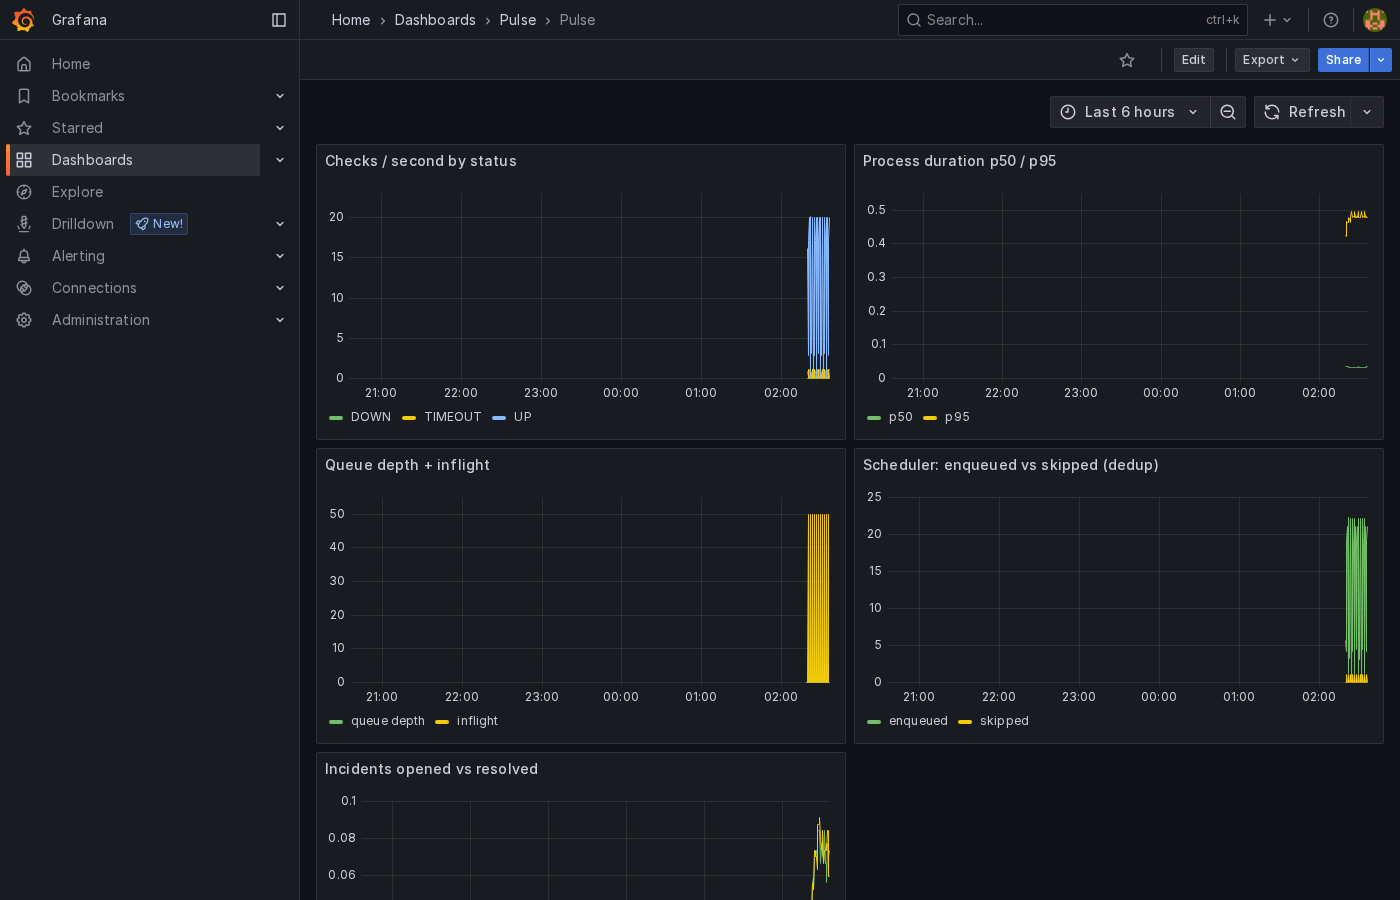
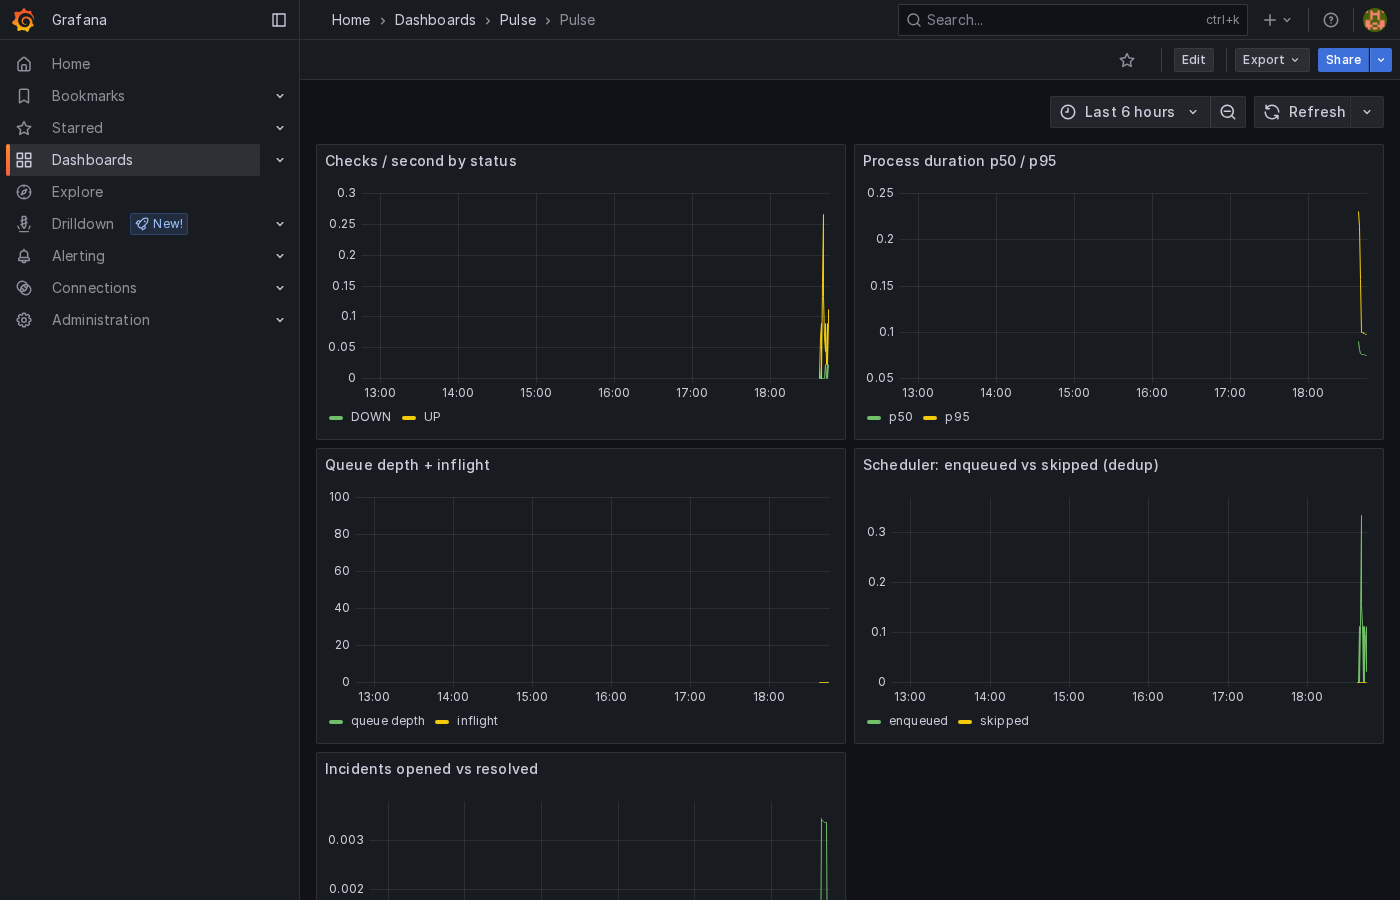
docs: full README rewrite (contract, config, security, ops, roadmap) + fresh grafana shot

diff --git a/README.md b/README.md
@@ -1,36 +1,178 @@
 # Pulse — API Monitoring & Incident Platform
 
-> Ekosistem: [api](https://github.com/RakhaYandra/pulse) · [web](https://github.com/RakhaYandra/pulse-web)
+> Ecosystem: [api](https://github.com/RakhaYandra/pulse) (this repo) · [web](https://github.com/RakhaYandra/pulse-web)
 
 Go, Gin, PostgreSQL, Redis, Docker. Full Clean Architecture.
 
-Self-hosted platform that health-checks APIs on a schedule, stores results,
-opens incidents on configurable failure thresholds, resolves on recovery, and
-notifies via Telegram. Monitoring runs in background workers — never in the
-dashboard request lifecycle.
+Self-hosted platform for developers and small teams who own several APIs:
+register endpoints, health-check them on a schedule, store every result,
+open incidents on configurable failure thresholds, resolve on recovery, and
+get notified via Telegram. Monitoring runs in background workers — never in
+the dashboard request lifecycle.
+
+## How it works
+
+```
+dashboard (pulse-web)
+        │  JSON contract (Newman-guarded)
+        ▼
+Go/Gin API ──┬──► PostgreSQL (users, monitors, checks, incidents)
+             └──► Redis (pulse:jobs) ──► Worker 1..N ──► target APIs
+                                                      │ incidents ──► Telegram
+```
+
+1. You create a monitor: `GET https://api.example.com/health`, every 60s,
+   timeout 5s, failure threshold 3, recovery threshold 2.
+2. The scheduler finds due monitors each tick and enqueues jobs (deduped —
+   one outstanding job per monitor).
+3. Workers execute the HTTP check (≤3 attempts collapse into one result),
+   store it, and evaluate the streak.
+4. 3 consecutive failures → incident OPEN (+ Telegram). 2 consecutive
+   successes → RESOLVED (+ Telegram).
+
+Example lifecycle:
+
+```
+09:00  200  180ms  ✓
+09:01  200  175ms  ✓
+09:02  500  420ms  ✗
+09:03  500  390ms  ✗
+09:04  timeout      ✗   → INCIDENT OPENED
+09:05  200  190ms  ✓
+09:06  200  185ms  ✓   → INCIDENT RESOLVED
+```
+
+Key engineering points:
+
+1. API layer separated from execution via Redis-backed workers.
+2. Retry (≤3 attempts) collapses into one check — uptime math stays correct.
+3. Incident state machine: fail streak → OPEN, success streak → RESOLVED.
+4. Failure isolation: per-job `recover()` + concurrency pool; one bad monitor
+   can't kill workers.
+5. Queue holds no business state — loss only delays, never corrupts.
+6. Schedule-driven cadence (`next_run_at`): due time advances from the
+   scheduled moment, not from check completion — no drift under load.
 
 ## Quickstart
 
 ```bash
-cp .env.example .env   # fill TELEGRAM_* to enable notifications (optional)
+cp .env.example .env   # set JWT_SECRET (required — boot fails without it)
 docker compose up -d --build
 curl localhost:8080/health
-# dashboard: https://github.com/RakhaYandra/pulse-web
 ```
 
-Demo login: `demo@pulse.local / demo1234` (register your own for isolation).
+Register your own account (there are no seeded credentials):
 
-## Verification (all green)
+```bash
+curl -s -X POST localhost:8080/api/v1/auth/register \
+  -H 'Content-Type: application/json' \
+  -d '{"email":"you@example.com","password":"pick-a-strong-password","name":"You"}'
+```
 
-| Check | Result |
+Create your first monitor (save the token as `$T`):
+
+```bash
+curl -s -X POST localhost:8080/api/v1/monitors \
+  -H "Authorization: Bearer $T" -H 'Content-Type: application/json' \
+  -d '{"name":"My API","url":"https://api.example.com/health","interval_seconds":300}'
+```
+
+Dashboard: [pulse-web](https://github.com/RakhaYandra/pulse-web) (`npm run dev`).
+
+## Run modes & services
+
+One Go binary, three modes (`-mode=` flag). Every mode serves its own
+`/metrics` (counters are process-local).
+
+| Service | Mode | Purpose |
+|---|---|---|
+| `api` | `api` | REST + auth + reads + `/metrics` |
+| `scheduler` | `scheduler` | Due-scan → enqueue (deduped) |
+| `worker-1..4` | `worker` | Pop jobs → check → store → incident eval → notify |
+
+Workers run a semaphore pool (`WORKER_CONCURRENCY`, default NumCPU);
+explicit `worker-1..4` services (not replicas) so each `/metrics` endpoint
+is scrapable at a fixed port.
+
+## API contract
+
+Base `http://localhost:8080/api/v1`. Auth: `Authorization: Bearer <JWT>`.
+Errors: `{"error": "<message>"}` with 400/401/404/409/429/500.
+Success: `{"data": ...}`.
+
+| Method | Path | Auth | Notes |
+|---|---|---|---|
+| GET | `/health` | no | liveness |
+| GET | `/api/v1/health` | no | db + redis status |
+| POST | `/api/v1/auth/register` | no | 10/min/IP, 409 on dup email |
+| POST | `/api/v1/auth/login` | no | 10/min/IP, JWT 24h |
+| GET | `/api/v1/auth/me` | yes | current user |
+| GET | `/api/v1/monitors` | yes | own monitors |
+| POST | `/api/v1/monitors` | yes | validate URL, interval ≥60s |
+| GET | `/api/v1/monitors/:id` | yes | 404 if not owned |
+| PATCH | `/api/v1/monitors/:id` | yes | true PATCH — omitted fields kept |
+| DELETE | `/api/v1/monitors/:id` | yes | cascades checks + incidents |
+| POST | `/api/v1/monitors/:id/pause` | yes | scheduler skips paused |
+| POST | `/api/v1/monitors/:id/resume` | yes | — |
+| GET | `/api/v1/monitors/:id/checks?limit=20` | yes | newest first, max 200 |
+| GET | `/api/v1/monitors/:id/incidents` | yes | per-monitor history |
+| GET | `/api/v1/incidents` | yes | all own incidents, newest first |
+| GET | `/api/v1/dashboard/summary` | yes | totals, up/down, active, 24h uptime |
+
+Full machine-readable contract: [`qa/collection.json`](qa/collection.json)
+(20 requests, Newman-gated).
+
+## Configuration
+
+| Variable | Default | Required | Purpose |
+|---|---|---|---|
+| `JWT_SECRET` | — | **yes** | Signing secret; boot fails without it |
+| `DATABASE_URL` | — | yes (compose sets) | Postgres DSN |
+| `REDIS_ADDR` | `localhost:6379` | no | Redis address |
+| `PORT` | `8080` | no | API listen port |
+| `METRICS_PORT` | `9100` | no | Per-process `/metrics` port |
+| `CORS_ALLOWED_ORIGINS` | `http://localhost:5173` | no | `*` only if set explicitly |
+| `PULSE_ALLOW_HOSTS` | empty (strict) | no | SSRF-exempt hostnames (bench `stub`) |
+| `TRUST_PROXY` | unset | no | `=1` trusts `X-Forwarded-For` for rate limit IP |
+| `SCHED_TICK_SECONDS` | `10` | no | Scheduler granularity (1-60) |
+| `WORKER_CONCURRENCY` | NumCPU | no | In-flight jobs per worker |
+| `TELEGRAM_BOT_TOKEN` / `TELEGRAM_CHAT_ID` | empty (disabled) | no | Notify on OPEN/RESOLVED only |
+| `LOG_LEVEL` | `info` | no | Log verbosity |
+| `GF_SECURITY_ADMIN_PASSWORD` | `pulse` | no | Grafana dev login (observability) |
+
+## Ports
+
+| Port | Service |
 |---|---|
-| Engine E2E (real) | 404-monitor → OPEN after 2 fails → RESOLVED after recovery, dashboard correct |
-| Newman | 20/20 (`qa/collection.json`) |
-| Go unit | domain + usecase (fake repos) + checker |
-| Playwright e2e | 5/5 (`pulse-web/e2e`, black-box) |
-| Avg API latency (Newman) | ~10ms local |
+| 8080 | API |
+| 9101 / 9102–04,06 / 9105 | metrics: api / worker-1..4 / scheduler |
+| 5433 → 5432 | PostgreSQL |
+| 6380 → 6379 | Redis |
+| 9090 / 3000 | Prometheus / Grafana (observability profile) |
+| 8099 | Bench stub (`--profile bench` only) |
 
-## Benchmark (measured, `docs/BENCHMARK.md`)
+## Security
+
+- **SSRF**: literal private/loopback/link-local hosts rejected at validation
+  (`domain`); resolved IPs re-checked at dial time (TOCTOU-safe); redirects
+  never followed; `PULSE_ALLOW_HOSTS` is the only exemption. See ADR-008.
+- **Rate limiting** (Redis, shared across replicas, fail-open): auth 10/min/IP,
+  API 100/min/IP, 429 + `Retry-After`.
+- **Auth**: bcrypt passwords (min 8), JWT 24h, per-user isolation on every
+  query (`WHERE user_id`).
+- **Defaults**: no secret defaults in code; `*` CORS and default passwords
+  only via explicit env. Dev compose values are documented insecure.
+
+## Verification
+
+| Layer | Command | Result |
+|---|---|---|
+| Go unit | `go test ./...` (in `backend/`) | domain + usecase (fake repos) + checker + SSRF + rate limit |
+| API contract | `npx newman run qa/collection.json --env-var baseUrl=http://localhost:8080` | 20/20 |
+| E2E (black-box) | `npm test --prefix e2e` (in `pulse-web`) | 5/5 |
+| Engine | register → 404 monitor → OPEN → fix URL → RESOLVED | verified live |
+
+## Benchmark (measured, [`docs/BENCHMARK.md`](docs/BENCHMARK.md))
 
 Deterministic stub (70% ok / 15% slow / 10% flaky / 5% timeout), 60s interval,
 16 CPU / 14 GB. Post-hardening (dedup + worker pool + 10s tick + `next_run_at`):
@@ -45,31 +187,54 @@ Honest note: peak drain exceeds required rate at every scale; after
 `next_run_at`, wave spacing settled to ~60s steady-state (cold start aside).
 Queue stays bounded; incident behavior exact.
 
+Run your own: `./bench/run.sh [N=100] [W=2] [D=600]` — with pre-flight
+gates (stub alive, workers allowlisted, checks flowing) and validity exit
+codes. Clean up after: `bench/clean.sql`.
+
 ## Observability
 
-Per-process `/metrics` (api :9101, workers :9102-04/06, scheduler :9105),
-Prometheus + Grafana + 2 alerts via `docker-compose.observability.yml`:
+Per-process `/metrics`, Prometheus + Grafana + 2 alerts
+(`PulseQueueBacklog`, `PulseProcessErrors`) via `docker-compose.observability.yml`:
 
 ```bash
 docker compose -f docker-compose.yml -f docker-compose.observability.yml up -d prometheus grafana
-# Grafana http://localhost:3000 (admin/pulse), dashboard "Pulse"
+# Grafana http://localhost:3000 (admin / $GF_SECURITY_ADMIN_PASSWORD), dashboard "Pulse"
 ```
 
 ![Grafana dashboard](docs/grafana.png)
 
-## Key engineering points
+## Operations
 
-1. API layer separated from execution via Redis-backed workers.
-2. Retry (≤3 attempts) collapses into one check — uptime math stays correct.
-3. Incident state machine: fail streak → OPEN, success streak → RESOLVED.
-4. Failure isolation: per-job `recover()`, one bad monitor can't kill workers.
-5. Queue holds no business state — loss only delays, never corrupts.
+- Backup/restore: [`ops/BACKUP.md`](ops/BACKUP.md) (pg_dump, volume snapshots).
+- Bench cleanup: `bench/clean.sql` (deletes `bench-%` monitors + bench users).
+- After editing compose env: use `up -d` (recreates), never bare `start` —
+  stale containers keep old env (see `docs/POSTMORTEM-002-bench-ssrf.md`).
+- Restart policies + Redis AOF are on; Postgres data persists in `pgdata`.
 
-## Layout
+## Layout & docs
 
-`backend/` (Go, Clean Architecture: domain/usecase/infrastructure/delivery)
-`qa/` (Newman contract) · `docs/` (BRD, PRD, Architecture, ADRs)
+```
+pulse/
+├── backend/            # Go, Clean Architecture: domain/usecase/infrastructure/delivery
+├── bench/              # stub + seed.sql + run.sh + clean.sql + results/*.json
+├── observability/      # prometheus.yml, alerts.yml, grafana provisioning + dashboard
+├── ops/                # BACKUP.md
+├── qa/                 # collection.json (Newman contract)
+└── docs/               # BRD, PRD, ARCHITECTURE, BENCHMARK, ADRs, postmortems
+```
 
-## Future
+Docs index: [ARCHITECTURE](docs/ARCHITECTURE.md) · [BENCHMARK](docs/BENCHMARK.md) ·
+[ADR-001](docs/ADR-001-monolith.md) [002](docs/ADR-002-redis-queue.md)
+[003](docs/ADR-003-retry-vs-check.md) [004](docs/ADR-004-split.md)
+[005](docs/ADR-005-full-ca.md) [006](docs/ADR-006-metrics.md)
+[007](docs/ADR-007-hardening.md) [008](docs/ADR-008-security.md) ·
+[POSTMORTEM-001](docs/POSTMORTEM-001-jwt-workers.md)
+[002](docs/POSTMORTEM-002-bench-ssrf.md)
 
-MTTR/SLA reports, self-monitoring, single-VPS deploy, `next_run_at` scheduling.
+## Roadmap
+
+Done: MVP engine, full CA both repos, SSRF + rate limiting, metrics +
+benchmark + hardening, observability, backup runbook.
+Next: live Telegram verification, single-VPS deploy, MTTR/SLA reports,
+self-monitoring.
+Non-goals: HA Postgres/Redis, multi-region, teams/billing, AI anomaly detection.
